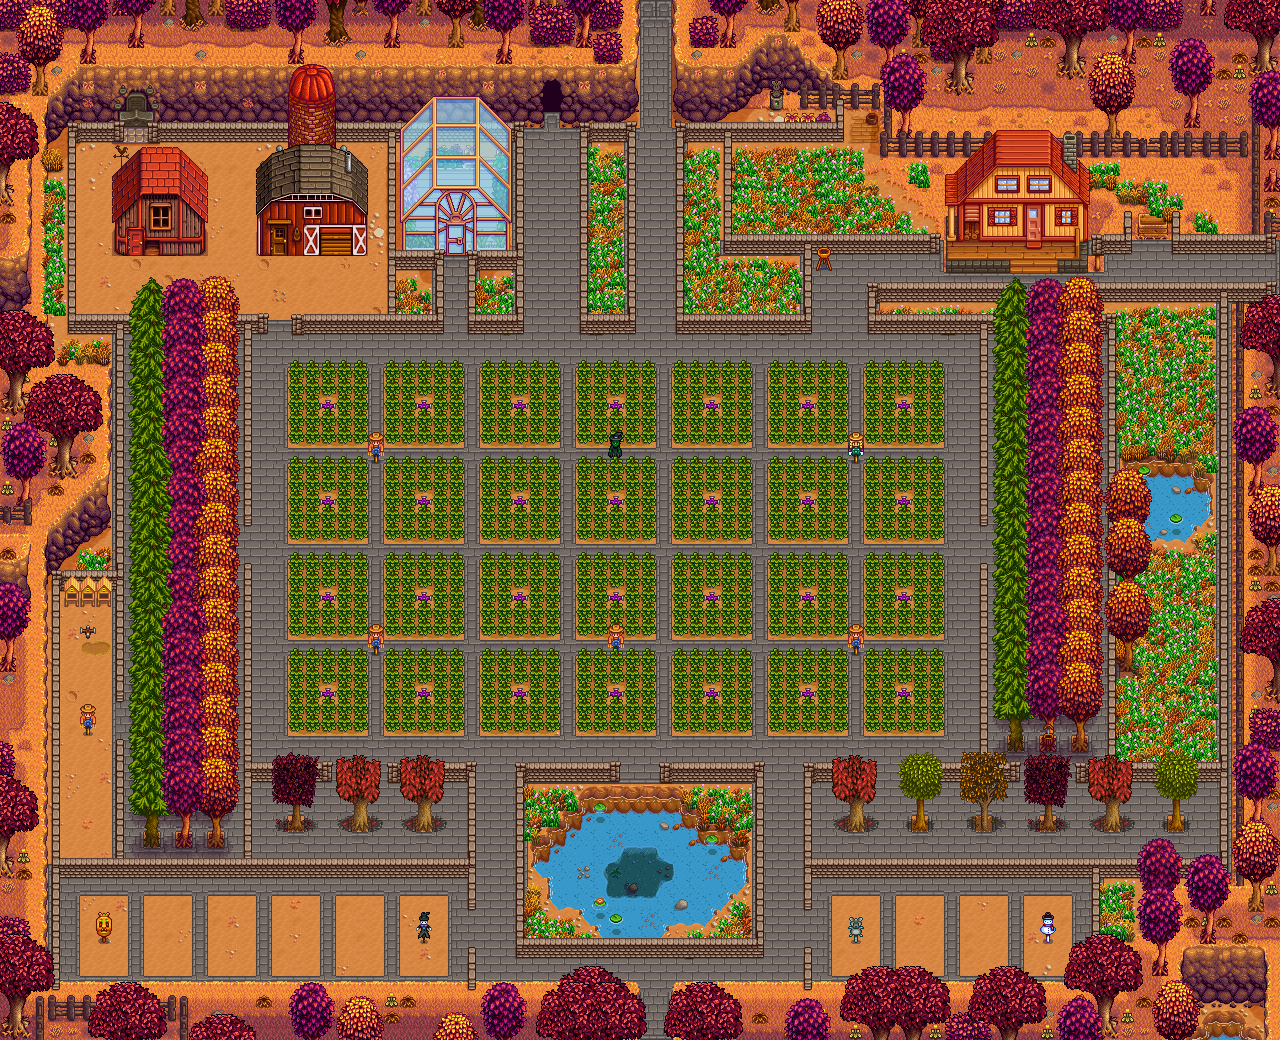
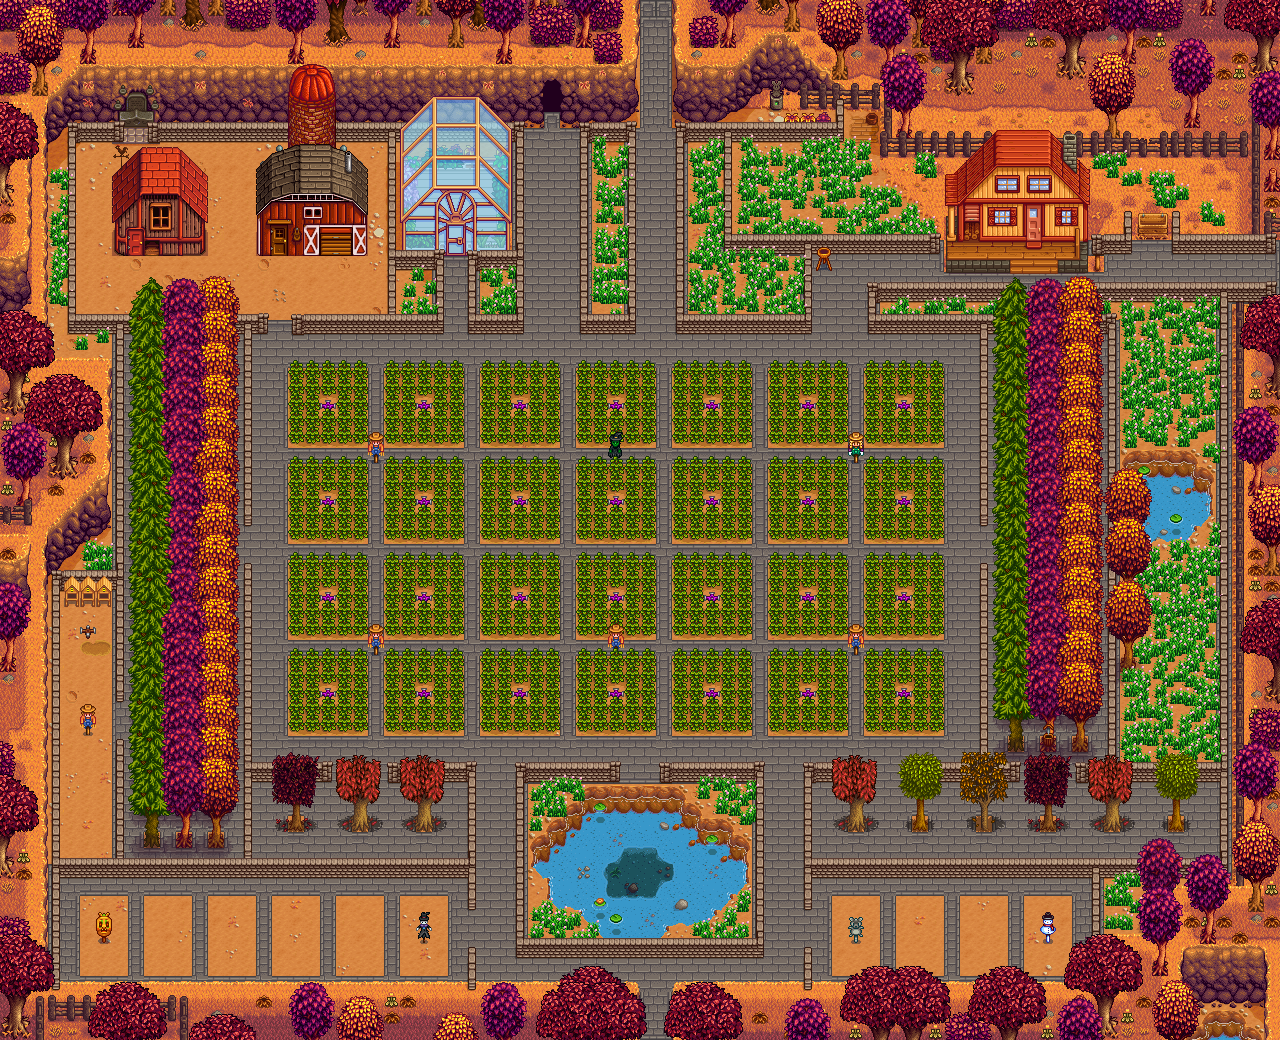
Remove the fixed offsets on grass drawing
This makes grass look nicer in position, even if the seasons are still
off.

diff --git a/view/draw_grass.go b/view/draw_grass.go
@@ -46,14 +46,14 @@ func drawGrass(pm *parser.Map, season string, item *parser.TerrainItem, img draw
 		return
 	}
 
-	for i, _ := range whichWeed {
+	for i := range whichWeed {
 		whichWeed[i] = rand.Intn(3)
 	}
 
 	var offsetWeeds [4][4]int
 
 	for i, b := range offsetWeeds {
-		for j, _ := range b {
+		for j := range b {
 			offsetWeeds[i][j] = rand.Intn(5) - 2
 		}
 	}
@@ -76,8 +76,8 @@ func drawGrass(pm *parser.Map, season string, item *parser.TerrainItem, img draw
 		}
 
 		sr := grassRect(weed * 15, item.Value.TerrainFeature.GrassType, season)
-		r := sr.Sub(sr.Min).Add(image.Point{item.Key.Vector2.X*m.TileWidth + int(float32((i % 2) * m.TileWidth) / 2 + (float32(offsetWeeds[i][2]) - 6.5)),
-			item.Key.Vector2.Y*m.TileHeight - i/2*m.TileHeight/2 + offsetWeeds[i][3] + 10.,
+		r := sr.Sub(sr.Min).Add(image.Point{item.Key.Vector2.X*m.TileWidth + int(float32((i % 2) * m.TileWidth) / 2 + float32(offsetWeeds[i][2])),
+			item.Key.Vector2.Y*m.TileHeight - i/2*m.TileHeight/2 + offsetWeeds[i][3],
 		})
 		if flipWeed[i] {
 			sr = xnaRect(0, 0, m.TileWidth, m.TileHeight)
